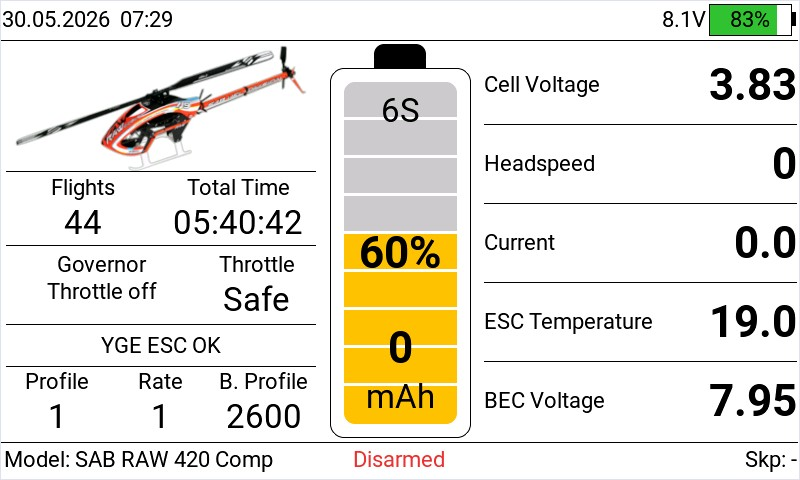
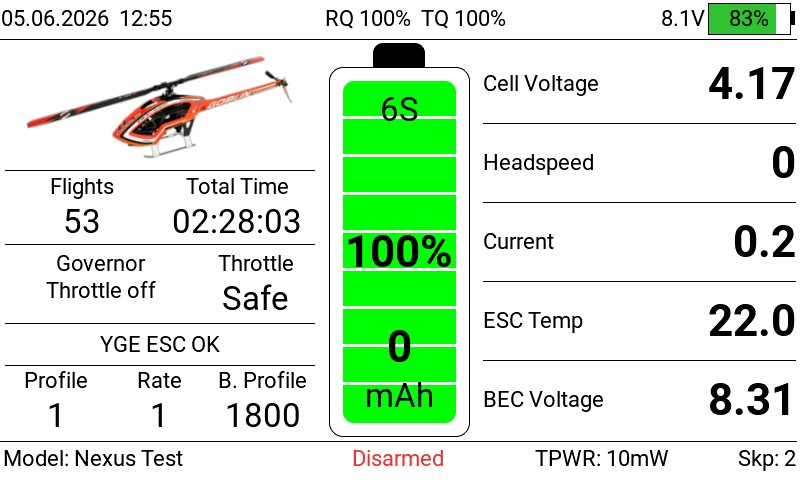
Updated and added screens
Docs: add statistics-page screenshot, refresh flight-view image

diff --git a/README.md b/README.md
@@ -8,7 +8,11 @@ UltiDash brings flight telemetry, battery state, ESC status and radio info toget
 on a single self-contained screen — designed so you can drop the EdgeTX top bar and
 run it full-screen.
 
-![UltiDash dashboard](images/ultidash.jpg)
+![UltiDash flight view](images/ultidash.jpg)
+
+*Flight view (above) and the statistics page shown when disarmed/disconnected (below).*
+
+![UltiDash statistics page](images/ultidash02.jpg)
 
 > ⚠ **Work in progress / under testing.** Version **0.1** is an early experimental
 > release and is still being tested in the field. Expect rough edges and changes;
